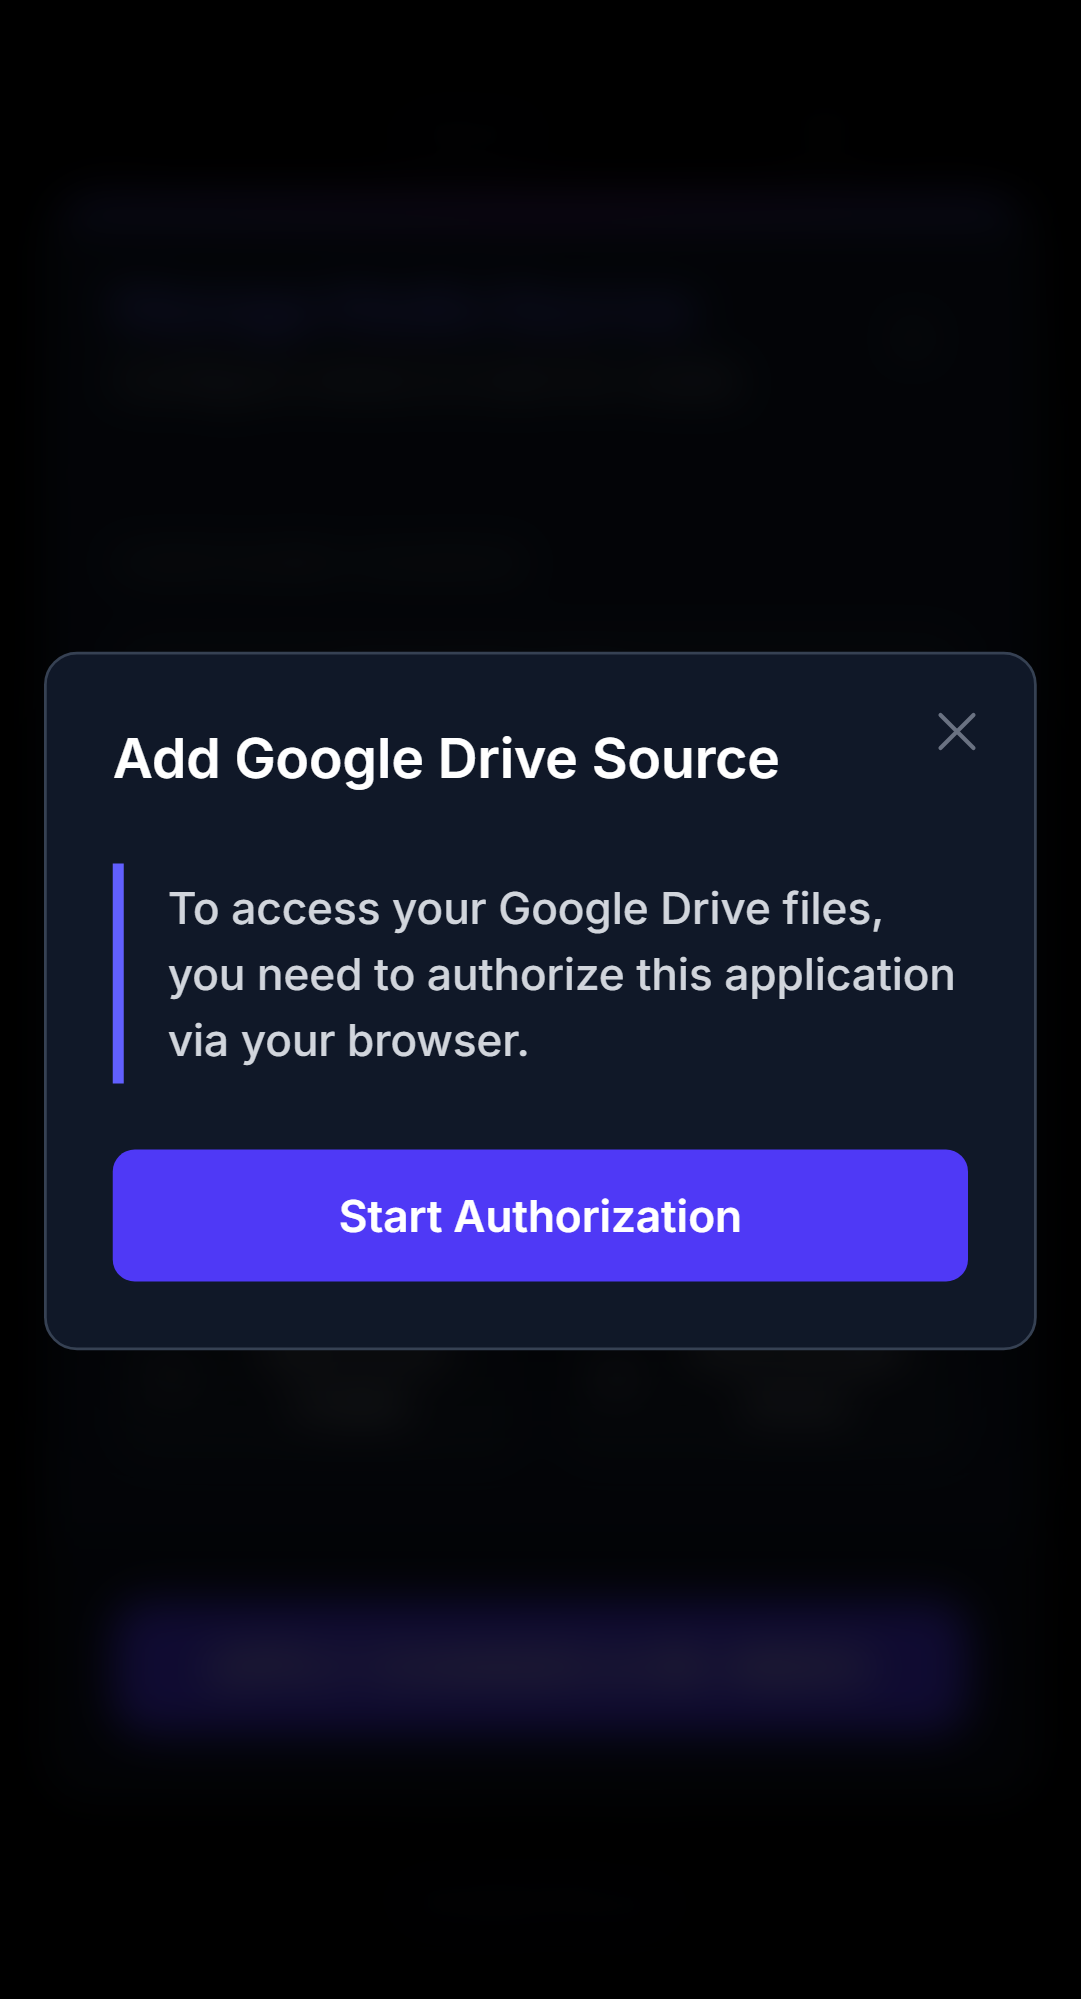
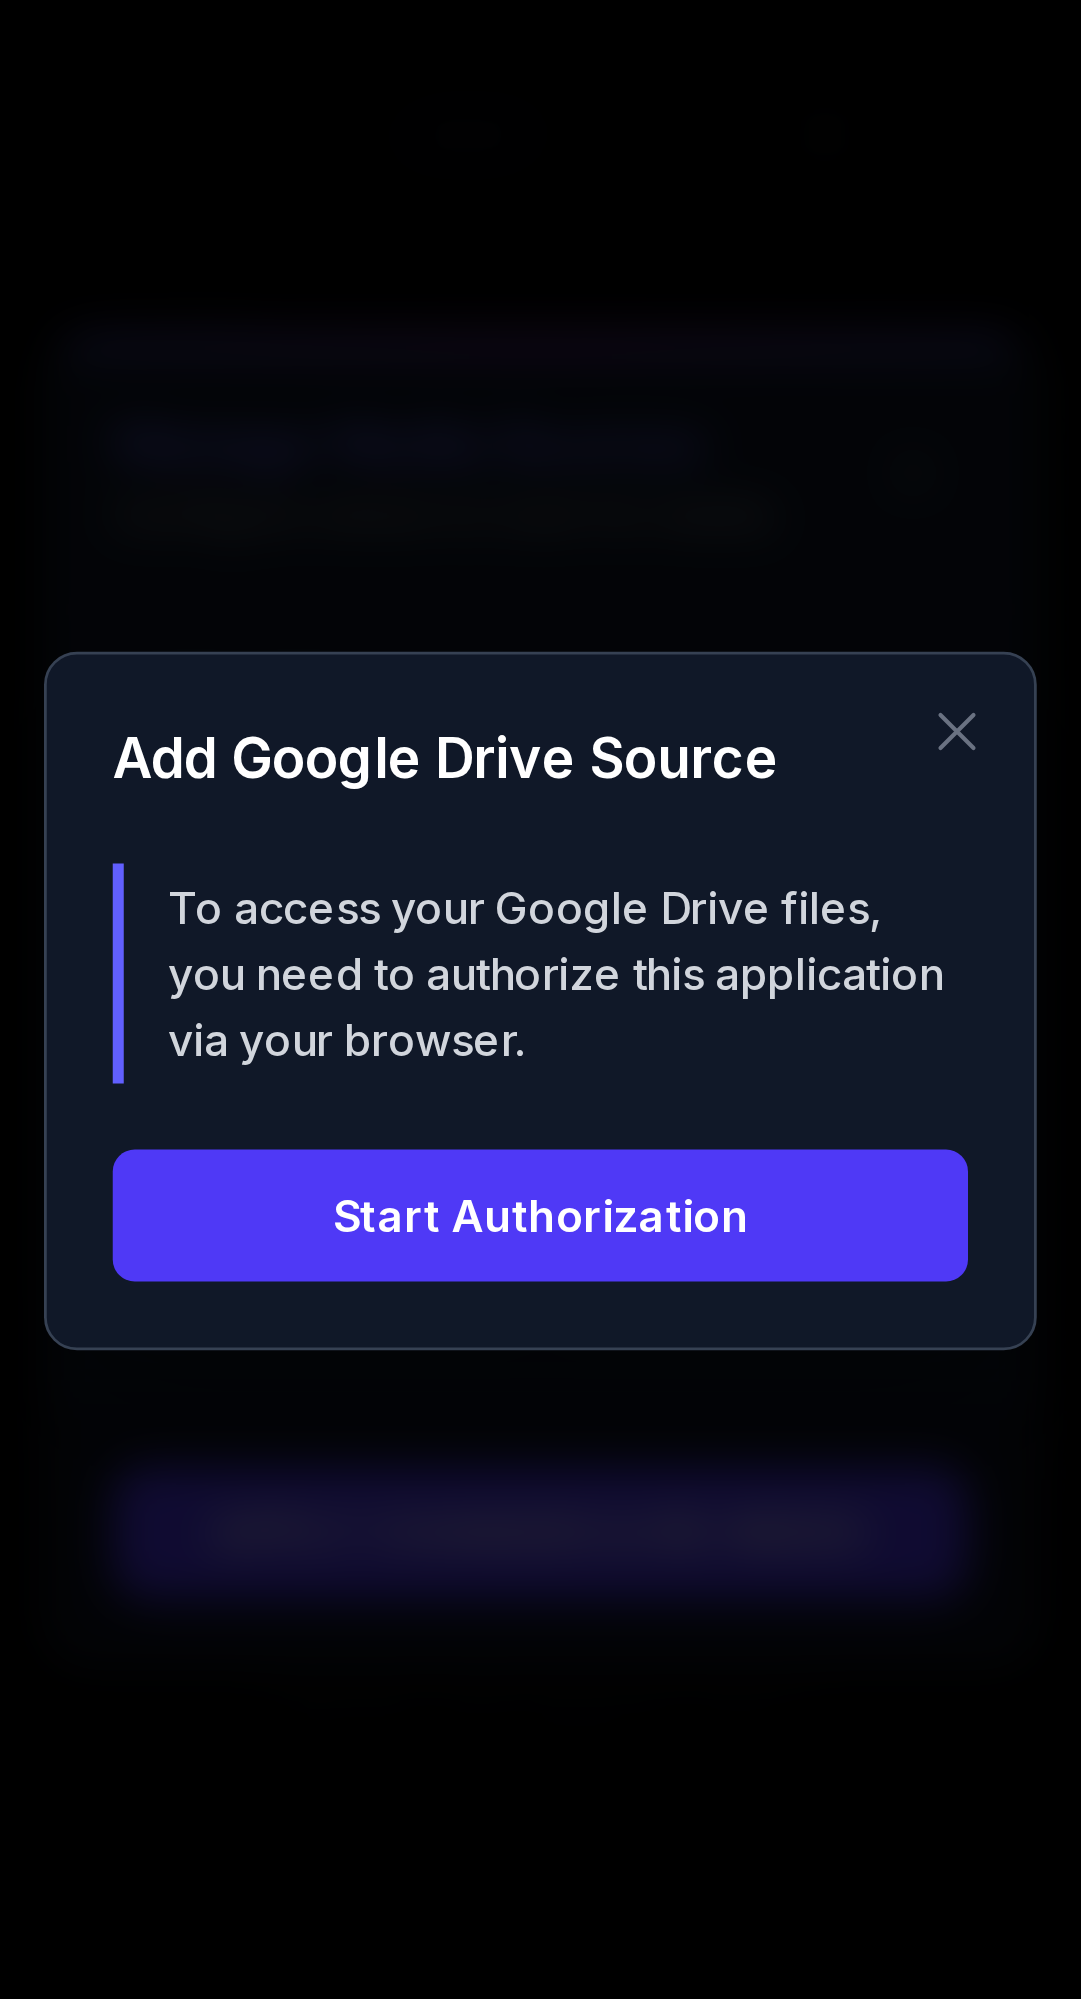
Fix E2E tests by resolving UI overlap and updating snapshots (#312)
- Increased z-index of Top Bar in App.vue to prevent MediaDisplay from intercepting clicks in Player mode.
- Updated visual regression snapshots for Mobile Chrome to reflect recent redesigns.

diff --git a/src/renderer/App.vue b/src/renderer/App.vue
@@ -25,7 +25,7 @@
       >
         <!-- Top Bar (Toggle Sidebar & Title) -->
         <div
-          class="flex justify-between items-center mb-4 p-3 shrink-0 transition-all duration-500 ease-in-out z-30"
+          class="flex justify-between items-center mb-4 p-3 shrink-0 transition-all duration-500 ease-in-out z-40"
           :class="[
             viewMode === 'player'
               ? 'absolute top-0 left-0 right-0 bg-gradient-to-b from-black/80 to-transparent'
